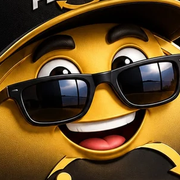
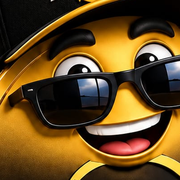
Add merch to shop, use mascot photos for support chat and site branding
Merch now has its own section on /shop with real Stripe checkout, alongside the existing /merch tab (already open to everyone). Support chat launcher/panel now shows the headset mascot render Steven sent. Replaced the header logo, favicon, and hero mascot image site-wide with Steven's new thumbs-up render, keeping the support chat's headset version as-is per his choice.

diff --git a/apps/web/app/shop/page.tsx b/apps/web/app/shop/page.tsx
@@ -6,7 +6,7 @@ import { useBasket } from "../BasketProvider";
 import CategorySidebar from "../components/CategorySidebar";
 import PageHero from "../components/PageHero";
 import ShopperSwitch from "../components/ShopperSwitch";
-import { SHOP_LOW_STOCK_THRESHOLD_UNITS } from "@flipsta/shared";
+import { MERCH_ITEMS, MERCH_SHIPPING_GBP, MerchItemId, SHOP_LOW_STOCK_THRESHOLD_UNITS } from "@flipsta/shared";
 
 type ShopItem = {
   id: string;
@@ -110,6 +110,42 @@ function ShopPageInner() {
   const [recommended, setRecommended] = useState<(ShopItem & { matchReasons?: string[] })[]>([]);
 
   const basket = useBasket();
+
+  // 18 Sept 2026, Steven: "add merch to the shop." Merch is a fixed
+  // catalogue with its own Stripe Checkout flow (a UK shipping address
+  // collected by Stripe itself, not the basket's "replay existing
+  // per-item purchase calls" model — see BasketProvider.tsx's comment),
+  // so it isn't wired into the basket like shop_items/products above.
+  // Instead this reuses the same buy() call the standalone /merch page
+  // makes, just rendered as one more section here.
+  const MERCH_ITEM_IDS = Object.keys(MERCH_ITEMS) as MerchItemId[];
+  const [merchSizes, setMerchSizes] = useState<Record<string, string>>({});
+  const [merchBusy, setMerchBusy] = useState<MerchItemId | null>(null);
+  const [merchError, setMerchError] = useState<string | null>(null);
+
+  async function buyMerch(id: MerchItemId) {
+    const item = MERCH_ITEMS[id];
+    const size = item.sizes ? merchSizes[id] ?? item.sizes[0] : undefined;
+    setMerchError(null);
+    setMerchBusy(id);
+    try {
+      const res = await fetch("/api/merch/checkout", {
+        method: "POST",
+        headers: { "Content-Type": "application/json" },
+        body: JSON.stringify({ itemId: id, size, quantity: 1 }),
+      });
+      const data = await res.json();
+      if (!res.ok) {
+        setMerchError(data.error ?? "Couldn't start checkout right now.");
+        setMerchBusy(null);
+        return;
+      }
+      window.location.href = data.url;
+    } catch {
+      setMerchError("Couldn't start checkout right now.");
+      setMerchBusy(null);
+    }
+  }
 
   async function loadCatalogue(categorySlug: string | null, activeSizes: string[]) {
     setFlipstaLoading(true);
@@ -481,6 +517,57 @@ function ShopPageInner() {
           {!flipstaLoading && filteredFlipstaItems.length === 0 && (
             <p className="text-textDim text-sm col-span-full">No Flipsta Sourced deals match right now — check back soon.</p>
           )}
+        </div>
+      </section>
+
+      <section className="space-y-3">
+        <div className="flex items-baseline justify-between gap-3 flex-wrap">
+          <div>
+            <h2 className="font-bold text-lg">Flipsta Merch</h2>
+            <p className="text-textDim text-sm">
+              T-shirts, caps and more from the Flipsta shop. UK shipping is a flat £{MERCH_SHIPPING_GBP.toFixed(2)} per
+              order.
+            </p>
+          </div>
+          <a href="/merch" className="text-xs font-bold text-brand2 whitespace-nowrap">
+            See all merch →
+          </a>
+        </div>
+        {merchError && <div className="card text-sm text-red">{merchError}</div>}
+        <div className="grid grid-cols-1 md:grid-cols-4 gap-4">
+          {MERCH_ITEM_IDS.map((id) => {
+            const item = MERCH_ITEMS[id];
+            return (
+              <div key={id} className="card space-y-2">
+                <div className="w-full aspect-square rounded-lg bg-surface2 border border-border overflow-hidden">
+                  {/* eslint-disable-next-line @next/next/no-img-element */}
+                  <img src={item.imageUrl} alt={item.name} className="w-full h-full object-cover" />
+                </div>
+                <div className="font-bold text-sm">{item.name}</div>
+                <div className="text-lg font-extrabold">£{item.priceGBP.toFixed(2)}</div>
+                {item.sizes && (
+                  <select
+                    value={merchSizes[id] ?? item.sizes[0]}
+                    onChange={(e) => setMerchSizes((s) => ({ ...s, [id]: e.target.value }))}
+                    className="w-full bg-surface2 border border-border rounded-lg px-2 py-1.5 text-sm"
+                  >
+                    {item.sizes.map((s) => (
+                      <option key={s} value={s}>{s}</option>
+                    ))}
+                  </select>
+                )}
+                <button
+                  type="button"
+                  disabled={merchBusy !== null}
+                  onClick={() => buyMerch(id)}
+                  className="w-full rounded-lg py-2 text-sm font-bold text-white disabled:opacity-50"
+                  style={{ background: "linear-gradient(135deg,#f2b545,#ffd77a)" }}
+                >
+                  {merchBusy === id ? "Redirecting…" : "Buy Now"}
+                </button>
+              </div>
+            );
+          })}
         </div>
       </section>
 

diff --git a/apps/web/app/layout.tsx b/apps/web/app/layout.tsx
@@ -64,19 +64,26 @@ export default async function RootLayout({ children }: { children: React.ReactNo
                   doesn't read at header scale) and saved to /public/logo.png.
                   18 Sept 2026, Steven: "put this as the logo in top left"
                   — a new gold-coin mascot render with "FLIPSTA" and the
-                  cycle-arrow built right into the coin face. Same crop
-                  reasoning as before: kept the cap/face/coin/wordmark and
-                  thumbs, cropped out the legs and the "Find it. Flip it.
-                  Profit." tagline baked into the bottom of the source
-                  image (illegible at header scale, and the tagline's
-                  already handled by metadata.description). Re-saved as
+                  cycle-arrow built right into the coin face. Re-saved as
                   WebP rather than PNG — ~60KB vs. ~300KB+ for a photo-real
-                  render like this, no visible quality loss. The old
-                  /public/logo.png is unreferenced now but still on disk —
-                  this session's device access can write files but not
-                  delete them, so removing it needs either Steven deleting
-                  it himself or a future session with shell access to his
-                  clone. */}
+                  render like this, no visible quality loss.
+                  18 Sept 2026, Steven, later the same day: "this is the new
+                  mascot, can you replace all others to this please" — a
+                  cleaner render of the same cap/glasses/thumbs-up pose,
+                  replacing the one above. Same crop reasoning both times:
+                  kept the cap/face/coin/wordmark and thumbs, cropped out
+                  the legs and the "Find it. Flip it. Profit." tagline
+                  baked into the bottom of the source image (illegible at
+                  header scale, and the tagline's already handled by
+                  metadata.description). Confirmed via AskUserQuestion that
+                  this swap does NOT extend to the support-chat widget's
+                  avatar (SupportChatWidget.tsx) — that one deliberately
+                  keeps its own headset render, since it visually signals
+                  "this is support." The old /public/logo.png is
+                  unreferenced now but still on disk — this session's
+                  device access can write files but not delete them, so
+                  removing it needs either Steven deleting it himself or a
+                  future session with shell access to his clone. */}
               <a href="/" className="flex items-center whitespace-nowrap shrink-0">
                 {/* eslint-disable-next-line @next/next/no-img-element */}
                 <img src="/logo.webp" alt="Flipsta" className="h-9 w-auto" />

diff --git a/apps/web/app/components/SupportChatWidget.tsx b/apps/web/app/components/SupportChatWidget.tsx
@@ -21,6 +21,13 @@ const STORAGE_KEY = "flipsta_chat_conversation_id";
  * starting a new one and losing the thread — the actual message history
  * itself still lives server-side in chat_messages, this is purely "which
  * conversation am I continuing."
+ *
+ * 18 Sept 2026, Steven: "the help bot in the bottom right hand side of the
+ * screen needs to be this" — sent through a render of the Flippy mascot in
+ * a headset ("Flipsta Customer Support"). Cropped to just the face/cap/
+ * glasses/mic (public/support-mascot.jpg, same reasoning as the favicon
+ * crop: the full body + wordmark turns to mush at this size) and used for
+ * both the launcher button and the panel header avatar.
  */
 export default function SupportChatWidget({ isAuthed }: { isAuthed: boolean }) {
   const pathname = usePathname();
@@ -87,7 +94,11 @@ export default function SupportChatWidget({ isAuthed }: { isAuthed: boolean }) {
       {open && (
         <div className="mb-3 w-80 sm:w-96 h-[28rem] card p-0 flex flex-col shadow-2xl">
           <div className="flex items-center justify-between px-4 py-3 border-b border-border">
-            <span className="font-bold text-sm">Flipsta support</span>
+            <span className="flex items-center gap-2 font-bold text-sm">
+              {/* eslint-disable-next-line @next/next/no-img-element */}
+              <img src="/support-mascot.jpg" alt="" className="w-7 h-7 rounded-full object-cover" />
+              Flipsta support
+            </span>
             <button onClick={() => setOpen(false)} className="text-textDim hover:text-text text-lg leading-none">
               ×
             </button>
@@ -132,10 +143,15 @@ export default function SupportChatWidget({ isAuthed }: { isAuthed: boolean }) {
       )}
       <button
         onClick={() => setOpen((v) => !v)}
-        className="btn btn-primary rounded-full w-14 h-14 shadow-2xl text-xl"
+        className="rounded-full w-14 h-14 shadow-2xl overflow-hidden border-2 border-gold flex items-center justify-center bg-surface2 text-xl"
         aria-label="Support chat"
       >
-        {open ? "×" : "💬"}
+        {open ? (
+          "×"
+        ) : (
+          // eslint-disable-next-line @next/next/no-img-element
+          <img src="/support-mascot.jpg" alt="Flipsta support" className="w-full h-full object-cover" />
+        )}
       </button>
     </div>
   );
